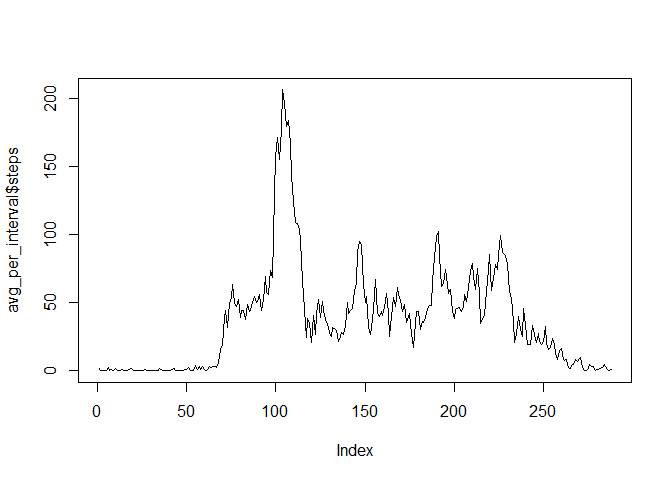
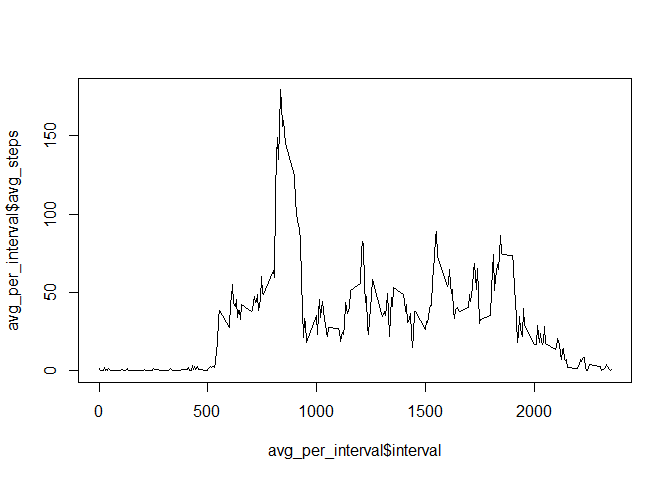
All questions answered

diff --git a/PA1_template.html b/PA1_template.html
@@ -57,10 +57,13 @@ if (window.hljs && document.readyState && document.readyState === "complete") {
 
 <div id="loading-and-preprocessing-the-data" class="section level2">
 <h2>Loading and preprocessing the data</h2>
-<pre class="r"><code>library(ggplot2)
+<pre class="r"><code>library(data.table)
+
 data &lt;- read.table(unz(&quot;activity.zip&quot;, &quot;activity.csv&quot;), header=T, sep=&quot;,&quot;)
 num_intervals &lt;- length(unique(data$interval))
-num_dates &lt;- length(unique(data$date))</code></pre>
+num_dates &lt;- length(unique(data$date))
+
+data$date &lt;- as.Date(as.character(data$date))</code></pre>
 </div>
 <div id="what-is-mean-total-number-of-steps-taken-per-day" class="section level2">
 <h2>What is mean total number of steps taken per day?</h2>
@@ -85,11 +88,14 @@ hist(sum_per_day$steps)</code></pre>
 </div>
 <div id="what-is-the-average-daily-activity-pattern" class="section level2">
 <h2>What is the average daily activity pattern?</h2>
+<div id="time-series-plot-of-5-minute-interval-average-number-of-steps" class="section level3">
+<h3>Time series plot of (5-minute interval, average number of steps)</h3>
 <pre class="r"><code>avg_per_interval &lt;- aggregate(steps ~ interval, data=data_no_na, FUN=sum)
 avg_per_interval$avg_steps &lt;- avg_per_interval$steps / num_dates
 
 plot(avg_per_interval$interval,avg_per_interval$avg_steps, type=&quot;l&quot;)</code></pre>
[1 lines of base64/hex data omitted]
+</div>
 <div id="interval-with-the-maximum-number-of-steps-on-average" class="section level3">
 <h3>Interval with the maximum number of steps (on average)</h3>
 <pre class="r"><code>avg_per_interval$interval[avg_per_interval$avg_steps == max(avg_per_interval$avg_steps)]</code></pre>
@@ -103,32 +109,58 @@ plot(avg_per_interval$interval,avg_per_interval$avg_steps, type=&quot;l&quot;)</
 <pre class="r"><code>length(data$steps[is.na(data$steps)])</code></pre>
 <pre><code>## [1] 2304</code></pre>
 </div>
+<div id="devise-a-strategy-to-fill-in-missing-values-nas" class="section level4">
+<h4>Devise a strategy to fill in missing values (NAs)</h4>
+<p>We replace the missing vaues with the interval averages calculated above</p>
+</div>
 <div id="fill-na-values-with-average-values-per-interval" class="section level4">
 <h4>Fill NA values with average values per interval</h4>
-<pre class="r"><code>head(avg_per_interval)</code></pre>
-<pre><code>##   interval steps avg_steps
-## 1        0    91   1.49180
-## 2        5    18   0.29508
-## 3       10     7   0.11475
-## 4       15     8   0.13115
-## 5       20     4   0.06557
-## 6       25   111   1.81967</code></pre>
 <pre class="r"><code>data_full &lt;- data
-data_full$steps[is.na(data_full$steps)] &lt;- avg_per_interval$avg_steps[avg_per_interval$interval == data_full$interval]</code></pre>
-<pre><code>## Warning: il numero di elementi da sostituire non è un multiplo della
-## lunghezza di sostituzione</code></pre>
-<pre class="r"><code>head(data_full)</code></pre>
-<pre><code>##     steps       date interval
-## 1 1.49180 2012-10-01        0
-## 2 0.29508 2012-10-01        5
-## 3 0.11475 2012-10-01       10
-## 4 0.13115 2012-10-01       15
-## 5 0.06557 2012-10-01       20
-## 6 1.81967 2012-10-01       25</code></pre>
+data_full &lt;- merge(data_full, avg_per_interval, by = &quot;interval&quot;, suffixes = c(&quot;&quot;, &quot;.y&quot;))
+
+nas &lt;- is.na(data_full$steps)
+data_full$steps[nas] &lt;- data_full$avg_steps[nas]
+data_full &lt;- data_full[,c(1:3)]</code></pre>
+<pre class="r"><code>length(data$steps[is.na(data_full$steps)])</code></pre>
+<pre><code>## [1] 0</code></pre>
+</div>
+<div id="frequency-of-total-number-of-steps-taken-every-day-with-new-dataset" class="section level4">
+<h4>Frequency of total number of steps taken every day with new dataset</h4>
+<pre class="r"><code>sum_per_day_full &lt;- aggregate(steps ~ date, data=data_full, FUN=sum)
+hist(sum_per_day_full$steps)</code></pre>
[1 lines of base64/hex data omitted]
+</div>
+<div id="mean-of-the-number-of-steps-taken-every-day-1" class="section level4">
+<h4>Mean of the number of steps taken every day</h4>
+<pre class="r"><code>mean(sum_per_day_full$steps)</code></pre>
+<pre><code>## [1] 10581</code></pre>
+</div>
+<div id="median-of-the-number-of-steps-taken-every-day-1" class="section level4">
+<h4>Median of the number of steps taken every day</h4>
+<pre class="r"><code>median(sum_per_day_full$steps)</code></pre>
+<pre><code>## [1] 10395</code></pre>
+<p>The mean and median does not appear to be strongly affected by our strategy of introducing average values.</p>
 </div>
 </div>
 <div id="are-there-differences-in-activity-patterns-between-weekdays-and-weekends" class="section level2">
 <h2>Are there differences in activity patterns between weekdays and weekends?</h2>
+<div id="create-a-new-factor-variable-in-the-dataset-with-two-levels---weekday-and-weekend" class="section level4">
+<h4>Create a new factor variable in the dataset with two levels - “weekday” and “weekend”</h4>
+<pre class="r"><code>data_full$wk &lt;- &quot;weekday&quot;
+data_full$wk[weekdays(data_full$date) == &quot;sabato&quot; | weekdays(data_full$date) == &quot;domenica&quot;] &lt;- &quot;weekend&quot;</code></pre>
+</div>
+<div id="time-series-plot-of-5-minute-interval-average-number-of-steps-1" class="section level3">
+<h3>Time series plot of (5-minute interval, average number of steps)</h3>
+<pre class="r"><code>library(ggplot2)
+
+avg_per_interval &lt;- aggregate(steps ~ interval + wk, data=data_full, FUN=mean)
+
+ggplot(avg_per_interval, aes(x=interval, y=steps)) + 
+        geom_line(color=&quot;red&quot;) + 
+        facet_wrap(~ wk, nrow=2, ncol=1) +
+        labs(x=&quot;Interval&quot;, y=&quot;Number of steps&quot;) </code></pre>
[1 lines of base64/hex data omitted]
+</div>
 </div>
 
 

diff --git a/PA1_template.md b/PA1_template.md
@@ -1,14 +1,16 @@
 # Reproducible Research: Peer Assessment 1
 
-
 ## Loading and preprocessing the data
 
 
 ```r
-library(ggplot2)
+library(data.table)
+
 data <- read.table(unz("activity.zip", "activity.csv"), header=T, sep=",")
 num_intervals <- length(unique(data$interval))
 num_dates <- length(unique(data$date))
+
+data$date <- as.Date(as.character(data$date))
 ```
 
 ## What is mean total number of steps taken per day?
@@ -51,6 +53,8 @@ median(sum_per_day$steps)
 
 ## What is the average daily activity pattern? 
 
+### Time series plot of (5-minute interval, average number of steps)
+
 
 ```r
 avg_per_interval <- aggregate(steps ~ interval, data=data_no_na, FUN=sum)
@@ -85,46 +89,88 @@ length(data$steps[is.na(data$steps)])
 ## [1] 2304
 ```
 
+#### Devise a strategy to fill in missing values (NAs)
+
+We replace the missing vaues with the interval averages calculated above
+
 #### Fill NA values with average values per interval
 
 
 ```r
-head(avg_per_interval)
-```
-
-```
-##   interval steps avg_steps
-## 1        0    91   1.49180
-## 2        5    18   0.29508
-## 3       10     7   0.11475
-## 4       15     8   0.13115
-## 5       20     4   0.06557
-## 6       25   111   1.81967
-```
-
-```r
 data_full <- data
-data_full$steps[is.na(data_full$steps)] <- avg_per_interval$avg_steps[avg_per_interval$interval == data_full$interval]
+data_full <- merge(data_full, avg_per_interval, by = "interval", suffixes = c("", ".y"))
+
+nas <- is.na(data_full$steps)
+data_full$steps[nas] <- data_full$avg_steps[nas]
+data_full <- data_full[,c(1:3)]
 ```
 
-```
-## Warning: il numero di elementi da sostituire non è un multiplo della
-## lunghezza di sostituzione
-```
 
 ```r
-head(data_full)
+length(data$steps[is.na(data_full$steps)])
 ```
 
 ```
-##     steps       date interval
-## 1 1.49180 2012-10-01        0
-## 2 0.29508 2012-10-01        5
-## 3 0.11475 2012-10-01       10
-## 4 0.13115 2012-10-01       15
-## 5 0.06557 2012-10-01       20
-## 6 1.81967 2012-10-01       25
+## [1] 0
 ```
 
+#### Frequency of total number of steps taken every day with new dataset
+
+
+```r
+sum_per_day_full <- aggregate(steps ~ date, data=data_full, FUN=sum)
+hist(sum_per_day_full$steps)
+```
+
+![plot of chunk unnamed-chunk-10](./PA1_template_files/figure-html/unnamed-chunk-10.png) 
+
+
+#### Mean of the number of steps taken every day 
+ 
+
+```r
+mean(sum_per_day_full$steps)
+```
+
+```
+## [1] 10581
+```
+ 
+#### Median of the number of steps taken every day 
+ 
+
+```r
+median(sum_per_day_full$steps)
+```
+
+```
+## [1] 10395
+```
+
+The mean and median does not appear to be strongly affected by our strategy of introducing average values. 
 
 ## Are there differences in activity patterns between weekdays and weekends?
+
+#### Create a new factor variable in the dataset with two levels - "weekday" and "weekend"
+
+
+```r
+data_full$wk <- "weekday"
+data_full$wk[weekdays(data_full$date) == "sabato" | weekdays(data_full$date) == "domenica"] <- "weekend"
+```
+
+### Time series plot of (5-minute interval, average number of steps)
+
+
+```r
+library(ggplot2)
+
+avg_per_interval <- aggregate(steps ~ interval + wk, data=data_full, FUN=mean)
+
+ggplot(avg_per_interval, aes(x=interval, y=steps)) + 
+        geom_line(color="red") + 
+        facet_wrap(~ wk, nrow=2, ncol=1) +
+        labs(x="Interval", y="Number of steps") 
+```
+
+![plot of chunk unnamed-chunk-14](./PA1_template_files/figure-html/unnamed-chunk-14.png) 
